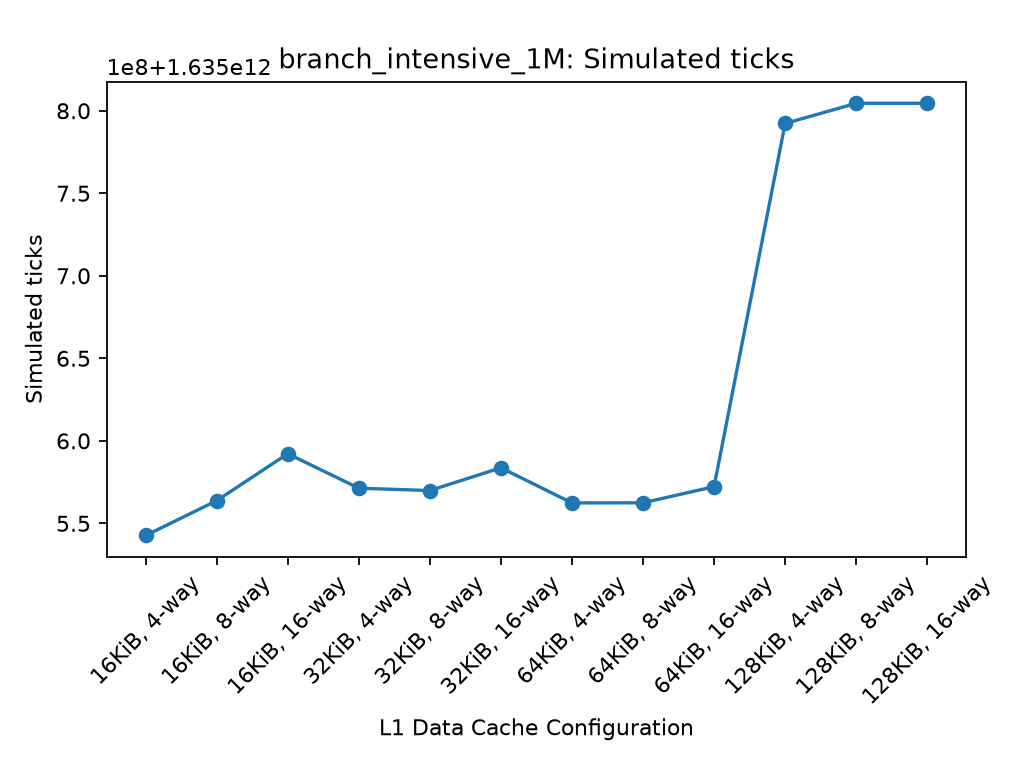
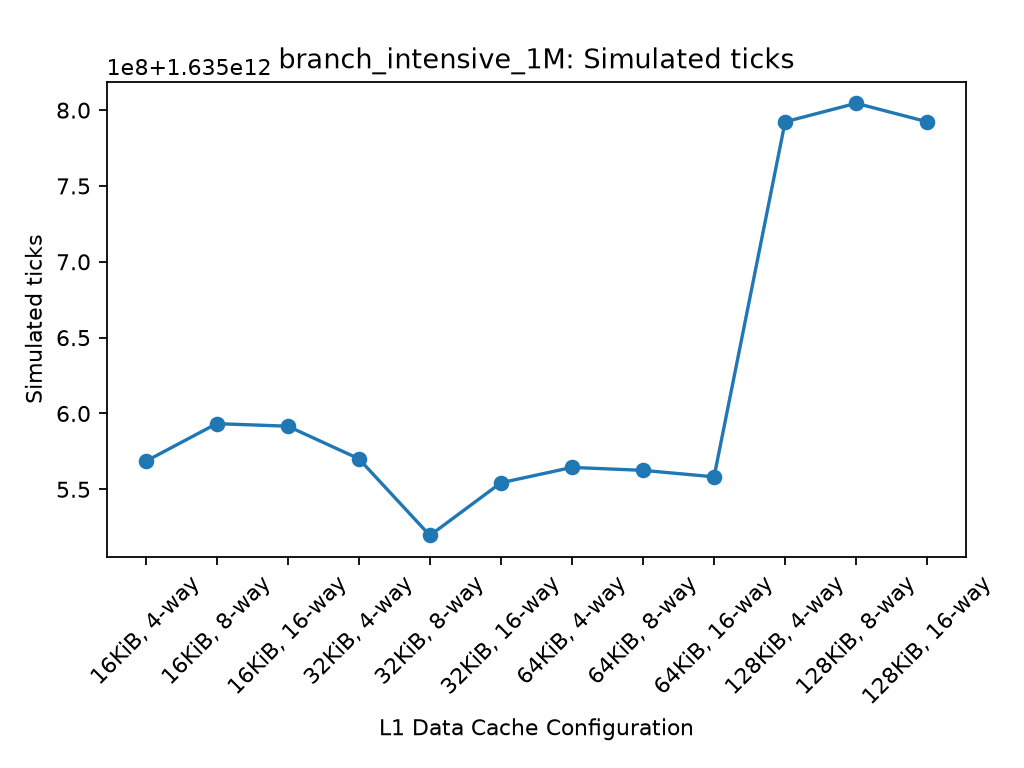
Document reproducibility and refresh cache analysis

diff --git a/README.md b/README.md
@@ -214,3 +214,45 @@ workload-cache-project/
 │       └── cache_recommendations.csv
 ├── .gitignore
 └── README.md
+
+## Reproducibility and Setup
+
+### Requirements
+
+- Python 3.10 or newer
+- pip
+- GCC or another compatible C compiler to rebuild the workloads
+- An X86 build of gem5 to rerun simulations
+- Python dependencies listed in `requirements.txt`
+
+The analysis and plotting scripts can process the existing datasets without rerunning gem5.
+
+### Python Environment
+
+Create and activate a virtual environment from the repository root:
+
+    python3 -m venv .venv
+    source .venv/bin/activate
+    python -m pip install -r requirements.txt
+
+### Reproduce Analysis and Visualizations
+
+With the virtual environment activated, run:
+
+    python scripts/combine_datasets.py
+    python scripts/analyze_cache_results.py
+    python scripts/recommend_cache.py
+    python scripts/plot_results.py
+    python scripts/plot_branch_results.py
+
+These scripts combine the workload datasets, generate configuration rankings and recommendations, update the analysis report, and produce visualizations. Review generated changes before committing them.
+
+### Rerun Simulations
+
+The following scripts execute gem5 simulations and can take considerably longer than the analysis scripts:
+
+    python scripts/run_cache_sweep.py
+    python scripts/run_memory_sweep.py
+    python scripts/run_branch_sweep.py
+
+Before running them, ensure that the gem5 X86 binary and compiled workload executables are available. The sweep scripts validate simulation results before replacing the official workload CSV files.

diff --git a/reports/cache_analysis_report.md b/reports/cache_analysis_report.md
@@ -13,9 +13,9 @@
 
 | Workload | Fastest configuration | IPC | Slowest configuration | Tick improvement |
 |---|---|---:|---|---:|
-| branch_intensive_1M | 16KiB, 4-way | 0.307575 | 128KiB, 8-way | 0.016% |
+| branch_intensive_1M | 32KiB, 8-way | 0.307580 | 128KiB, 8-way | 0.017% |
 | matrix_mul_256 | 16KiB, 8-way | 0.122478 | 16KiB, 4-way | 0.015% |
-| memory_intensive_32MiB | 64KiB, 16-way | 0.127266 | 128KiB, 4-way | 2.098% |
+| memory_intensive_32MiB | 64KiB, 4-way | 0.127299 | 128KiB, 16-way | 2.131% |
 
 ## Interpretation
 
